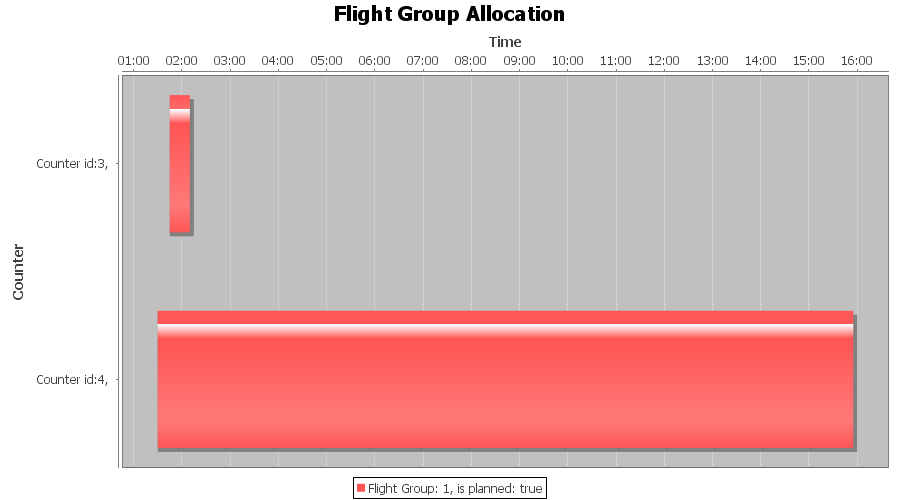
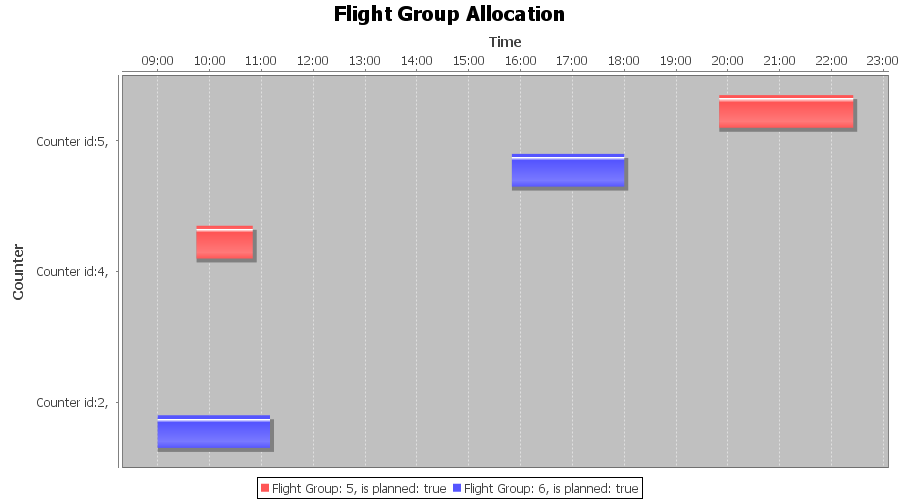
final v5

diff --git a/web/css/main.css b/web/css/main.css
@@ -222,6 +222,20 @@ a.desc:after {
     float: right;
 }
 
+.loader {
+    border: 16px solid #f3f3f3; /* Light grey */
+    border-top: 16px solid #3498db; /* Blue */
+    border-radius: 50%;
+    width: 120px;
+    height: 120px;
+    animation: spin 2s linear infinite;
+}
+
+@keyframes spin {
+    0% { transform: rotate(0deg); }
+    100% { transform: rotate(360deg); }
+}
+
 /*<!-- alskdjklasjd -->*/
 
 .panel-heading, .btn-success {

diff --git a/views/solve/index.php b/views/solve/index.php
@@ -17,8 +17,8 @@ use yii\bootstrap\Html;
  * @var $error String
  * @var $kpi []
  * @var $datesToSolve []
+ * @var $data []
  */
-
 
 $kpiContent = <<<html
     <div id="kpi" s>
@@ -111,13 +111,53 @@ html;
 <?php ActiveForm::end(); ?>
 
 
-<div style="width: 100%;display: flex">
-    <?= $image ? Html::img('@web/gantt.png?' . date('Y:m:d H:i:s'), ['style' => 'margin: auto;']) : '' ?>
-</div>
+<?php if ($data): ?>
+    <div id="chart_div" style="margin-top: 12px"></div>
+<?php endif; ?>
 
 
 <script>
+    chartData = <?=$data ? json_encode($data) : '[]'?>;
     window.addEventListener('load', function () {
         $('#solveform-includeunplanned').val(<?=$model->includeUnplanned ?: 0?>).trigger('change');
-    })
+        loadChart();
+    });
+
+    function loadChart() {
+        google.charts.load('current', {'packages': ['gantt']});
+        google.charts.setOnLoadCallback(drawChart);
+    }
+
+    function gant_row(title, task, category, start, end, completion, previous) {
+        return [title, task, category, start, end, null, completion, previous];
+    }
+
+    function drawChart() {
+        let data = new google.visualization.DataTable();
+        let rows = [];
+        data.addColumn('string', 'Task ID');
+        data.addColumn('string', 'Task Name');
+        data.addColumn('string', 'Resource');
+        data.addColumn('date', 'Start Date');
+        data.addColumn('date', 'End Date');
+        data.addColumn('number', 'Duration');
+        data.addColumn('number', 'Percent Complete');
+        data.addColumn('string', 'Dependencies');
+
+        chartData.taskSeriesCollection.forEach(flightGroup => {
+            let title = flightGroup.title;
+            let tasks = flightGroup.tasks;
+            tasks.forEach(requirement => {
+                rows.push(gant_row(title, requirement.title, '', new Date(requirement.start), new Date(requirement.end), 0, null));
+            });
+        });
+
+        data.addRows(rows);
+
+        let options = {
+            width: '100%'
+        };
+        let chart = new google.visualization.Gantt(document.getElementById('chart_div'));
+        chart.draw(data, options);
+    }
 </script>

diff --git a/controllers/SolveController.php b/controllers/SolveController.php
@@ -59,10 +59,10 @@ class SolveController extends Controller
         $model = new SolveForm();
         $loaded = $model->load(\Yii::$app->request->post());
         $datesToSolve = Requirement::find()->select('date(date_start) as date_start')->distinct('date(date_start)')->all();
-        $image = null;
         $output = null;
         $kpi = null;
         $error = null;
+        $data = null;
         if ($loaded) {
             $counter = Counter::find()->active()->asArray()->all();
             $zone = Zone::find()->active()->asArray()->all();
@@ -93,7 +93,6 @@ class SolveController extends Controller
             $asJson = json_encode($allData);
             $inputPath = 'input.json';
             $batPath = 'fgplanner.bat';
-            $image = 'gantt.png';
             file_put_contents($inputPath, $asJson);
             $command = $batPath . ' ' . $inputPath;
             $output = shell_exec($command);
@@ -103,15 +102,16 @@ class SolveController extends Controller
                 while ($result == "") $result = prev($output);
                 $result = json_decode($result, true);
                 $kpi = $result['score'];
+                $data = $result['data'];
                 $this->updateTables($result);
-            }else{
+            } else {
                 $error = 'Error while executing command, please try again';
             }
         }
         return $this->render('index', [
-            'model' => $model, 'image' => $image,
+            'model' => $model, 'data' => $data,
             'datesToSolve' => $datesToSolve, 'output' => $output,
-            'kpi' => $kpi, 'error' => $error
+            'kpi' => $kpi, 'error' => $error,
         ]);
     }
 

diff --git a/assets/AppAsset.php b/assets/AppAsset.php
@@ -28,6 +28,7 @@ class AppAsset extends AssetBundle
         'js/bootstrap.js',
         'js/modalForm.js',
         'js/modalController.js',
+        'https://www.gstatic.com/charts/loader.js',
     ];
     public $depends = [
         'yii\web\YiiAsset',
